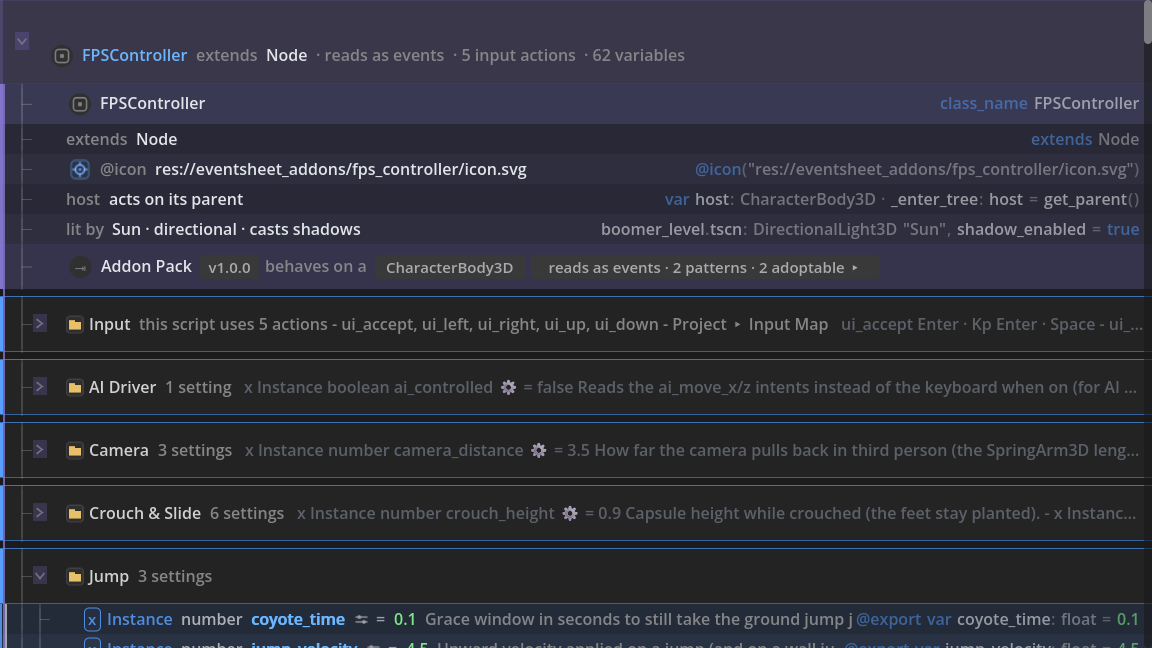
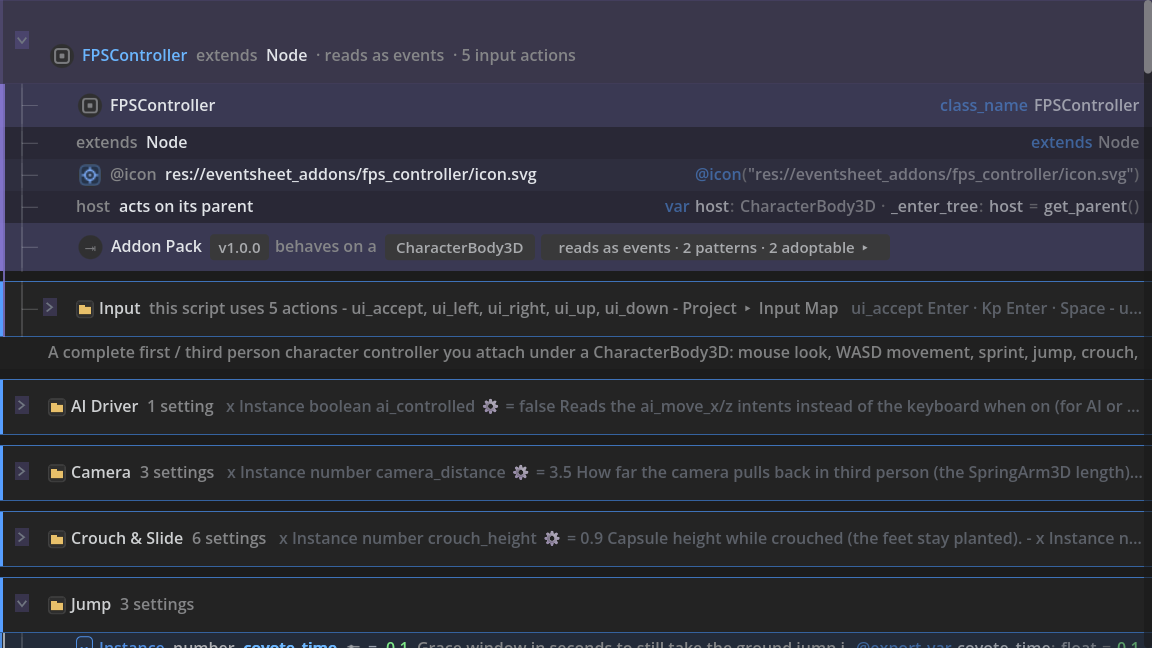
docs(head): the pack-head figures show the head that ships
The two figures beside the head-bar section were rendered before an opened
pack moved onto its own bands, so they showed a fact the bar no longer
carries (`62 variables`) and a fold order it no longer has. Re-rendered with
the committed harness, which is byte-stable across runs, and the paragraph
and both alt texts now say what the picture shows: the line counts the
variables only while it folds them, and a pack stands its settings on the
sheet instead.

Changed region(s): [[0.0, 0.1235, 1.0, 1.0], [0.5, 0.0617, 0.5938, 0.0926], [0.9688, 0.0617, 1.0, 0.1235]]

diff --git a/addons/eventsheet/help/GUIDE-USING-WITH-EXISTING-CODE.md b/addons/eventsheet/help/GUIDE-USING-WITH-EXISTING-CODE.md
@@ -565,22 +565,24 @@ That is the order this section is in.
   so the chip and the test can never disagree about the same file. When the engine reported parse
   errors, the bar also says `N errors - the game will not run this script`, in red.
 - **The head is ONE bar, and the lines it stands for are its fold.** An opened file rests under a
-  single line - `▣ FPSController extends Node · reads as events · 5 input actions · 62 variables` -
+  single line - `▣ FPSController extends Node · reads as events · 5 input actions` -
   and the ▸ on it opens every bar a reader used to scroll past: the band per line of the file
   (`class_name FPSController`, `extends Node`, `@icon(...)`, the host binding), the Include bar for
   what no line says (`⇥ Addon Pack  v1.0.0  behaves on a  CharacterBody3D  reads as events ▸`),
-  the **Input** bar, and the variable folders. Each fact on the line keeps its door: the class it
+  and the **Input** bar. Each fact on the line keeps its door: the class it
   extends opens the base script when that base is another script of your project, and the coverage
-  words walk the script blocks.
+  words walk the script blocks. On a file that is not a behavior pack the variable folders are in
+  the fold as well and the line counts them; an opened pack stands its settings on the sheet
+  instead, so the line never counts what it no longer folds.
 
-  Outside the fold, in reading order: the file's `##` description as the comment row it is, a
-  `Triggers this pack fires - 11` folder, the object's Behaviors, and the globals it uses. Inside a
-  variable folder a variable reads `Instance number  jump_velocity = 4.5  Upward velocity applied on
+  Outside the fold, in reading order: the file's `##` description as the comment row it is, then the
+  pack's own settings, one folder per setting group. Inside one of those folders a knob reads
+  `Instance number  jump_velocity = 4.5  Upward velocity applied on
   a jump` - the one sentence below, plus the knob's own description. Nothing is stated twice: the
   description is a comment row rather than a band drawn over its own echo, and a pack that closes on
   a paragraph repeating it has that paragraph left where its author wrote it.
 
-  ![A behaviour pack's head: one bar reading "FPSController extends Node - reads as events - 5 input actions - 62 variables", the pack's own description as a comment row under it, and a folded Triggers folder](images/opened-pack-head.png)
+  ![A behaviour pack's head: one bar reading "FPSController extends Node - reads as events - 5 input actions", the pack's own description as a comment row under it, and one folded folder per setting group below](images/opened-pack-head.png)
 
   ![The same head with the fold open: the bands for class_name, extends, @icon and the host binding, the Include bar reading "Addon Pack v1.0.0 behaves on a CharacterBody3D", the Input bar, and one folder per setting group](images/opened-pack-head-open.png)
 - **A behavior pack opens on its verbs.** A pack has a public face - the settings you turn in the

diff --git a/docs/GUIDE-USING-WITH-EXISTING-CODE.md b/docs/GUIDE-USING-WITH-EXISTING-CODE.md
@@ -565,22 +565,24 @@ That is the order this section is in.
   so the chip and the test can never disagree about the same file. When the engine reported parse
   errors, the bar also says `N errors - the game will not run this script`, in red.
 - **The head is ONE bar, and the lines it stands for are its fold.** An opened file rests under a
-  single line - `▣ FPSController extends Node · reads as events · 5 input actions · 62 variables` -
+  single line - `▣ FPSController extends Node · reads as events · 5 input actions` -
   and the ▸ on it opens every bar a reader used to scroll past: the band per line of the file
   (`class_name FPSController`, `extends Node`, `@icon(...)`, the host binding), the Include bar for
   what no line says (`⇥ Addon Pack  v1.0.0  behaves on a  CharacterBody3D  reads as events ▸`),
-  the **Input** bar, and the variable folders. Each fact on the line keeps its door: the class it
+  and the **Input** bar. Each fact on the line keeps its door: the class it
   extends opens the base script when that base is another script of your project, and the coverage
-  words walk the script blocks.
+  words walk the script blocks. On a file that is not a behavior pack the variable folders are in
+  the fold as well and the line counts them; an opened pack stands its settings on the sheet
+  instead, so the line never counts what it no longer folds.
 
-  Outside the fold, in reading order: the file's `##` description as the comment row it is, a
-  `Triggers this pack fires - 11` folder, the object's Behaviors, and the globals it uses. Inside a
-  variable folder a variable reads `Instance number  jump_velocity = 4.5  Upward velocity applied on
+  Outside the fold, in reading order: the file's `##` description as the comment row it is, then the
+  pack's own settings, one folder per setting group. Inside one of those folders a knob reads
+  `Instance number  jump_velocity = 4.5  Upward velocity applied on
   a jump` - the one sentence below, plus the knob's own description. Nothing is stated twice: the
   description is a comment row rather than a band drawn over its own echo, and a pack that closes on
   a paragraph repeating it has that paragraph left where its author wrote it.
 
-  ![A behaviour pack's head: one bar reading "FPSController extends Node - reads as events - 5 input actions - 62 variables", the pack's own description as a comment row under it, and a folded Triggers folder](images/opened-pack-head.png)
+  ![A behaviour pack's head: one bar reading "FPSController extends Node - reads as events - 5 input actions", the pack's own description as a comment row under it, and one folded folder per setting group below](images/opened-pack-head.png)
 
   ![The same head with the fold open: the bands for class_name, extends, @icon and the host binding, the Include bar reading "Addon Pack v1.0.0 behaves on a CharacterBody3D", the Input bar, and one folder per setting group](images/opened-pack-head-open.png)
 - **A behavior pack opens on its verbs.** A pack has a public face - the settings you turn in the
